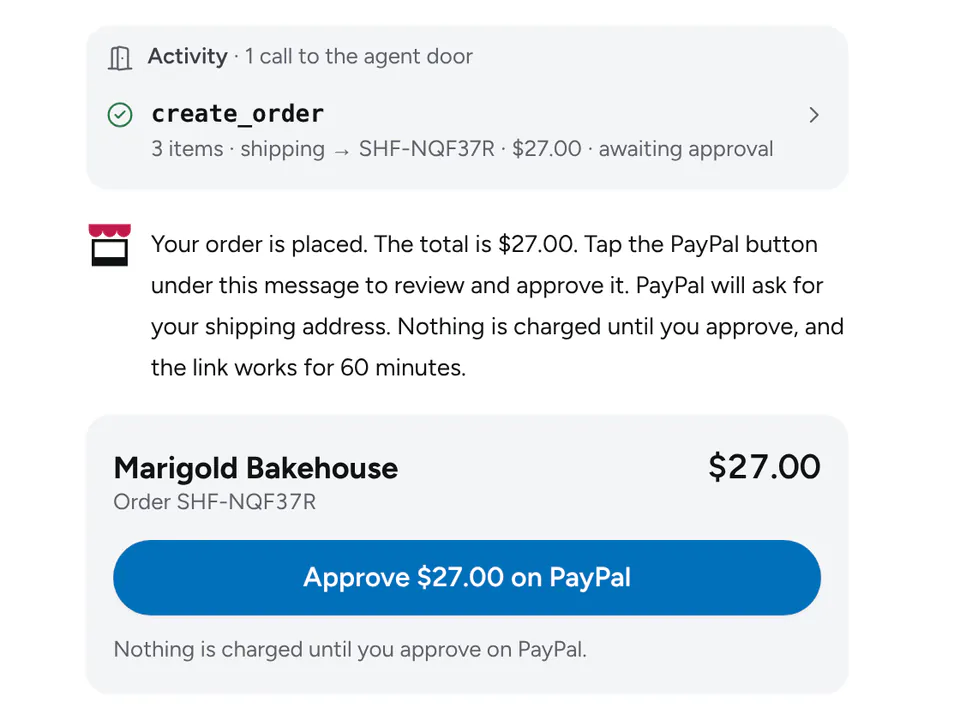
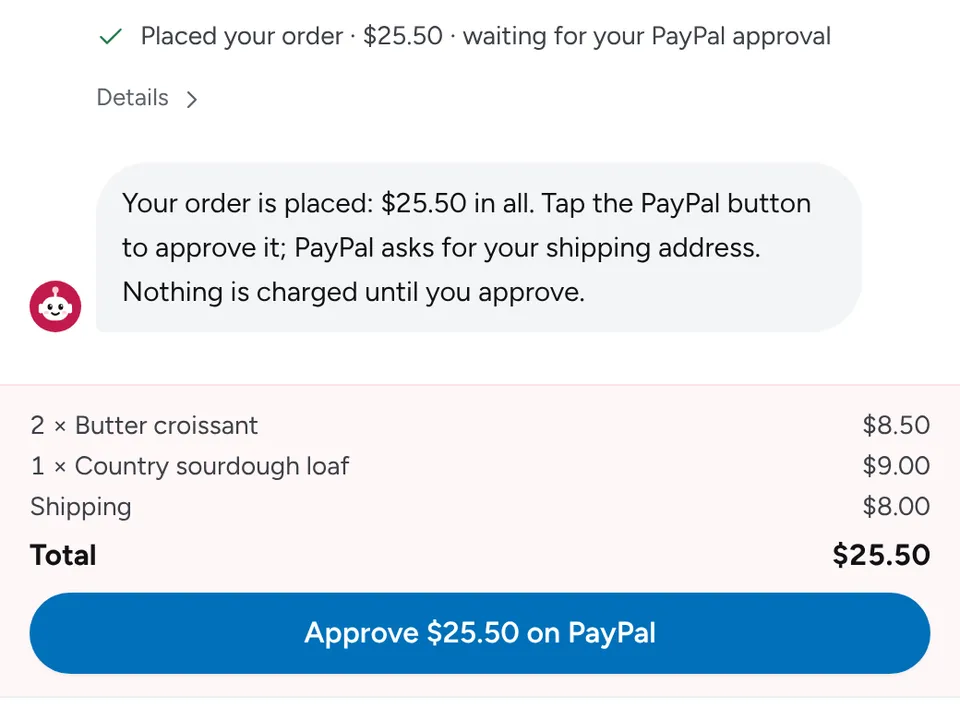
Run 13: How it works step 2 retaken with the friendly steps; header fits 360 px
Step 2 is the home chat's placed order (plain step, reply, pinned summary, Approve on PayPal), retaken by an
HIW_SHOT-gated test in e2e/home-chat.spec.ts. The narrow-phone header tightening now applies below 384 px
(was below 360, so 360 overflowed by 16 px); other-pages e2e checks scrollWidth <= innerWidth at 320/360/390.

diff --git a/e2e/home-chat.spec.ts b/e2e/home-chat.spec.ts
@@ -8,6 +8,7 @@
 import fs from 'node:fs';
 import path from 'node:path';
 import { expect, test, type Page } from '@playwright/test';
+import sharp from 'sharp';
 import { getConfig } from '../src/lib/config';
 import { getDb } from '../src/lib/db';
 import * as itemsRepo from '../src/lib/db/repos/items';
@@ -522,3 +523,46 @@ for (const [label, viewport] of [['1440', DESKTOP], ['390', PHONE]] as const) {
     });
   });
 }
+
+// How it works, step 2 (public/landing/step-order.webp): the same story at a 520 px viewport and device scale 2, the
+// log scrolled to the placed order's plain step with the pinned PayPal button below it, cropped 4:3 and saved as a
+// 960×720 WebP (q80), like steps 1 and 3. Run: HIW_SHOT=1 E2E_PORT=3231 npx playwright test e2e/home-chat.spec.ts -g "step 2"
+test.describe('How it works step 2 picture', () => {
+  test.skip(!process.env.HIW_SHOT, 'set HIW_SHOT=1 to retake public/landing/step-order.webp');
+  test.use({ viewport: { width: 520, height: 900 }, deviceScaleFactor: 2 });
+
+  test('step 2: the placed order and its PayPal button', async ({ page }) => {
+    await mockAssistant(page);
+    await page.goto('/?chat=0');
+    await settle(page);
+    await page.getByRole('button', { name: LAUNCHER, exact: true }).click();
+    const chat = panel(page);
+    await expect(chat.getByText(GREETING)).toBeVisible();
+    await say(page, ASK);
+    await expect(chat.getByRole('list', { name: 'Items from the menu' })).toBeVisible();
+    await say(page, SWAP);
+    await expect(chat.getByText(/Should I place it\?/)).toBeVisible();
+    await say(page, YES);
+    const pay = chat.getByRole('link', { name: /^Approve \$.* on PayPal$/ });
+    await expect(pay).toBeVisible();
+    await chat.getByRole('textbox', { name: 'Message to the assistant' }).blur();
+    await page.mouse.move(0, 0);
+    await page.waitForTimeout(700);
+    // From just below the buyer's "Yes, place it" to below the PayPal button, the panel's full width, 4:3, so the text
+    // reads at about the scale of steps 1 and 3. To fit, the "Order … placed · approve it below" note (the summary below
+    // says the same) is left out, and the suggestion row under the summary is hidden so the frame ends on white.
+    await chat.getByRole('button', { name: 'Did my payment go through?' }).evaluate((el) => (el.parentElement!.style.visibility = 'hidden'));
+    await chat.getByText(/placed · approve it below/).evaluate((el) => {
+      const entry = el.closest<HTMLElement>('[data-entry]') ?? el;
+      entry.style.display = 'none';
+    });
+    await page.waitForTimeout(300);
+    const log = chat.getByRole('log', { name: 'Conversation' });
+    const yes = (await log.locator('[data-entry="user"]').last().boundingBox())!;
+    const button = (await pay.boundingBox())!;
+    const clip = { x: 0, y: Math.round(yes.y + yes.height + 4), width: 520, height: 390 };
+    expect(clip.y + clip.height).toBeGreaterThan(button.y + button.height + 8);
+    const png = await page.screenshot({ clip });
+    await sharp(png).resize(960, 720).webp({ quality: 80 }).toFile(path.join('public', 'landing', 'step-order.webp'));
+  });
+});

diff --git a/src/components/brand/BandHeader.tsx b/src/components/brand/BandHeader.tsx
@@ -109,7 +109,7 @@ export function BandHeader({ view }: { view: Extract<HeaderView, { kind: 'public
     <>
       <div className="flex shrink-0 items-center gap-6 lg:gap-10">
         <Link href={view.logoHref} aria-label="Shelfie home" className="press-text -mx-1 inline-flex min-h-tap shrink-0 items-center rounded-sm px-1">
-          <Logo size="sm" className="max-[22.5rem]:h-5 md:h-7" />
+          <Logo size="sm" className="max-[24rem]:h-5 md:h-7" />
         </Link>
         <nav aria-label="Main" className="hidden items-center md:flex">
           <ul className="flex items-center">
@@ -144,10 +144,10 @@ export function BandHeader({ view }: { view: Extract<HeaderView, { kind: 'public
           <AccountMenu email={view.email} placement="down" />
         ) : (
           <>
-            <Link href="/login" className={cn(LINK, 'max-[22.5rem]:hidden max-md:px-2')}>
+            <Link href="/login" className={cn(LINK, 'max-[24rem]:hidden max-md:px-2')}>
               Log in
             </Link>
-            <ButtonLink href="/signup" variant="brand" className={cn(CTA, 'max-md:min-h-9 max-md:px-3.5 max-md:text-sm max-[22.5rem]:px-3')}>
+            <ButtonLink href="/signup" variant="brand" className={cn(CTA, 'max-md:min-h-9 max-md:px-3.5 max-md:text-sm max-[24rem]:px-3')}>
               Add your shop
             </ButtonLink>
           </>

diff --git a/src/components/landing/HowItWorks.tsx b/src/components/landing/HowItWorks.tsx
@@ -5,7 +5,8 @@ import { AccentMarks } from './art';
 /**
  * Step 1 is the seller's side of the camera: a real photo of a handwritten price list (Unsplash License; see
  * docs/ASSETS.md), with nothing drawn over it. Steps 2 and 3 show Shelfie itself: one focal region of the real app on
- * the demo shop, cropped about 480 CSS px wide so its text stays readable. All are 960×720 WebP in public/landing/,
+ * the demo shop, cropped about 480 to 520 CSS px wide so its text stays readable (step 2 is retaken by the `step 2` test in
+ * e2e/home-chat.spec.ts). All are 960×720 WebP in public/landing/,
  * in the same 4:3 frame.
  */
 const STEPS: { title: string; body: string; image: string; alt: string }[] = [
@@ -19,7 +20,7 @@ const STEPS: { title: string; body: string; image: string; alt: string }[] = [
     title: '2. AI shoppers order',
     body: 'Buyers (or their AI assistants) can order.',
     image: '/landing/step-order.webp',
-    alt: 'The shop’s AI assistant has called create_order and shows the button Approve $27.00 on PayPal.',
+    alt: 'The shop’s AI assistant: “Placed your order · $25.50 · waiting for your PayPal approval”, the order summary and the button Approve $25.50 on PayPal.',
   },
   {
     title: '3. Get paid on PayPal',

diff --git a/e2e/other-pages.spec.ts b/e2e/other-pages.spec.ts
@@ -26,6 +26,19 @@ for (const [label, viewport] of [['390', PHONE], ['1440', DESKTOP]] as const) {
   });
 }
 
+// The public header fits narrow phones: no sideways scroll at 320, 360 (where it once overflowed by 16 px) or 390 px.
+for (const width of [320, 360, 390]) {
+  test(`at ${width} px no public page scrolls sideways`, async ({ page }) => {
+    await page.setViewportSize({ width, height: 800 });
+    for (const path of ['/?chat=0', '/browse', '/help', '/terms', '/privacy']) {
+      await page.goto(path);
+      await settle(page);
+      const { scroll, inner } = await page.evaluate(() => ({ scroll: document.documentElement.scrollWidth, inner: window.innerWidth }));
+      expect(scroll, `${path} at ${width} px`).toBeLessThanOrEqual(inner);
+    }
+  });
+}
+
 test('the footer’s main links are one named navigation', async ({ page }) => {
   await page.setViewportSize(DESKTOP);
   await page.goto('/help');

diff --git a/docs/ASSETS.md b/docs/ASSETS.md
@@ -281,7 +281,7 @@ All under the [Pexels License](https://www.pexels.com/license/), resized and com
 
 ## How it works step images (`public/landing/`)
 
-Our own screenshots of Shelfie, not third-party assets, except step 1: `step-read.webp` is the handwritten price list photo below, alone. Then `step-order.webp` (the demo shop's assistant panel: its create_order call, reply and Approve on PayPal card, replayed turns; the "Tell me once you've approved" line is cut out) and `step-paid.webp` (the seller's paid order header and its AI brief). Taken with Playwright at device scale 2 and a 500 px viewport on the e2e database (seeded demo shop, labelled fixture orders, fake PayPal ids), cropped to one focal region of about 480 CSS px and saved as 960×720 WebP (q80) with sharp. Food photos inside them are the demo shop's (credited above). No owner links, tokens or emails are in frame.
+Our own screenshots of Shelfie, not third-party assets, except step 1: `step-read.webp` is the handwritten price list photo below, alone. Then `step-order.webp` (the home page chat on the demo shop, mocked turns: the plain step "Placed your order · $25.50 · waiting for your PayPal approval" with its Details button, the reply and the pinned order with Approve on PayPal; retaken in run 13 by `HIW_SHOT=1 npx playwright test e2e/home-chat.spec.ts -g "step 2"`, a 520 px viewport at device scale 2, 520×390 CSS px resized to 960×720; the "Order … placed · approve it below" note and the suggestion row are left out of frame) and `step-paid.webp` (the seller's paid order header and its AI brief). Taken with Playwright at device scale 2 and a 500 px viewport on the e2e database (seeded demo shop, labelled fixture orders, fake PayPal ids), cropped to one focal region of about 480 CSS px and saved as 960×720 WebP (q80) with sharp. Food photos inside them are the demo shop's (credited above). No owner links, tokens or emails are in frame.
 
 ## Handwritten price list photo (`public/landing/paper-menu.webp`, step 1, video)
 

diff --git a/docs/DECISIONS.md b/docs/DECISIONS.md
@@ -430,3 +430,8 @@ The owner: "Remove 'Add your shop' from footer and redesign footer, keep pic tha
 
 - **Each How it works step reads heading, short line, then screenshot, at every width** (owner: "keep headings above image"). From `lg` the three steps share a two-row CSS subgrid (`grid-rows-subgrid`, each `li` spans both rows), so the headings start on one line and the pictures on another even when a short line wraps to two lines (step 3 at 1024 px). Pictures keep the same 4:3 size.
 - **2026-11-11, run 12: below 768 px the hero chain is a numbered list of captioned rows** (64 px picture with its number, the step's name at 16 px and one 14 px line of what happens), replacing the row of four unlabelled numbered tiles. Reason: the owner saw only pictures and no instructions on the phone. Each row rises on the same beat as its card on wider screens; 768 px and up are unchanged.
+
+## Run 13: How it works step 2 and the 360 px header
+
+- **Step 2 picture** is now the home page chat's placed order (plain step "Placed your order · $25.50 · waiting for your PayPal approval", Details, the reply, the pinned summary and Approve on PayPal), retaken by a test gated on `HIW_SHOT` in `e2e/home-chat.spec.ts` so it can be redone after UI changes. 4:3 at 480 CSS px could not hold step + reply + summary + button, so the crop is 520×390 CSS px (text scale close to steps 1 and 3) and the "Order … placed · approve it below" note, which repeats the summary, is left out of frame, as the old picture cut a line too.
+- **Header at 360 px**: the narrow-phone tightening (Log in moves to the menu, smaller logo and CTA padding) was `max-[22.5rem]`, i.e. below 360 px, so exactly 360 overflowed by 16 px. It is now `max-[24rem]` (below 384 px); 390 px keeps Log in. `e2e/other-pages.spec.ts` checks `scrollWidth <= innerWidth` on the five public pages at 320, 360 and 390 px.
